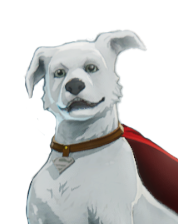
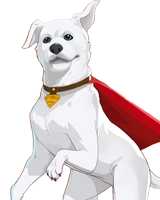
update Krypto

diff --git a/js/codex/ui.js b/js/codex/ui.js
@@ -442,7 +442,8 @@ async function showModal(championId) {
         champion_id: champion.id,
         champion_name: champion.name,
     });
-
+    
+    // --- Navigation Logic ---
     const currentIndex = currentChampionList.findIndex(c => c.id === championId);
     DOM.modalPrevBtn.disabled = currentIndex <= 0;
     DOM.modalNextBtn.disabled = currentIndex >= currentChampionList.length - 1;
@@ -456,29 +457,34 @@ async function showModal(championId) {
     DOM.modalNextBtn = newNext;
 
     if (currentIndex > 0) {
-        DOM.modalPrevBtn.addEventListener('click', () => {
-            showModal(currentChampionList[currentIndex - 1].id);
-        });
+        DOM.modalPrevBtn.addEventListener('click', () => showModal(currentChampionList[currentIndex - 1].id));
     }
     if (currentIndex < currentChampionList.length - 1) {
-        DOM.modalNextBtn.addEventListener('click', () => {
-            showModal(currentChampionList[currentIndex + 1].id);
-        });
+        DOM.modalNextBtn.addEventListener('click', () => showModal(currentChampionList[currentIndex + 1].id));
     }
 
     const comicId = champion.name.toLowerCase().replace(/\s+/g, '_').replace('two-face', 'two_face');
     const comic = COMICS_DATA[comicId];
     const cleanName = sanitizeName(champion.name);
+    
     let mainImageHtml = '';
     let imagePanelCaption = '';
+
+    // --- MODIFIED LOGIC FOR IMAGE LAYERING ---
     if (comic && comic.imageUrl) {
         const comicYear = comic.coverDate ? `(${new Date(comic.coverDate).getFullYear()})` : '';
-        mainImageHtml = `<img src="${comic.imageUrl}" alt="Cover of ${comic.title}" class="comic-featured-image" onerror="this.style.display='none'">`;
+        // Create two images: a blurred background comic and a crisp foreground portrait
+        mainImageHtml = `
+            <img src="${comic.imageUrl}" alt="Cover of ${comic.title}" class="comic-featured-image is-background-image" onerror="this.style.display='none'">
+            <img src="img/champions/full/${cleanName}.webp" alt="${champion.name}" class="comic-featured-image is-foreground-image">
+        `;
         imagePanelCaption = `First Appearance: ${comic.title} #${comic.issueNumber} ${comicYear}`;
     } else {
+        // Fallback remains the same
         mainImageHtml = `<img src="img/champions/full/${cleanName}.webp" alt="Artwork of ${champion.name}" class="comic-featured-image" onerror="this.style.display='none'">`;
         imagePanelCaption = `Codex Image`;
     }
+
     let synergiesHtml = '';
     if (champion.inherentSynergies && champion.inherentSynergies.length > 0) {
         const synergyItems = champion.inherentSynergies.map(synName => {

diff --git a/css/codex/ui.css b/css/codex/ui.css
@@ -536,3 +536,31 @@
 .modal-nav-btn.next-btn {
     right: -22px;
 }
+
+.modal-avatar-overlay {
+    position: absolute;
+    bottom: 20px;
+    left: 20px;
+    z-index: 5;
+    
+    width: 120px;
+    height: 120px;
+    
+    border-radius: 50%;
+    border: 4px solid #fff;
+    box-shadow: 0 5px 20px rgba(0, 0, 0, 0.6);
+    object-fit: cover;
+}
+
+.is-background-image {
+    filter: blur(3px) brightness(0.7);
+}
+
+.is-foreground-image {
+    position: absolute;
+    top: 10px;
+    left: 10px;
+    width: calc(100% - 20px);
+    height: calc(100% - 20px);
+    object-position: center top;
+}
